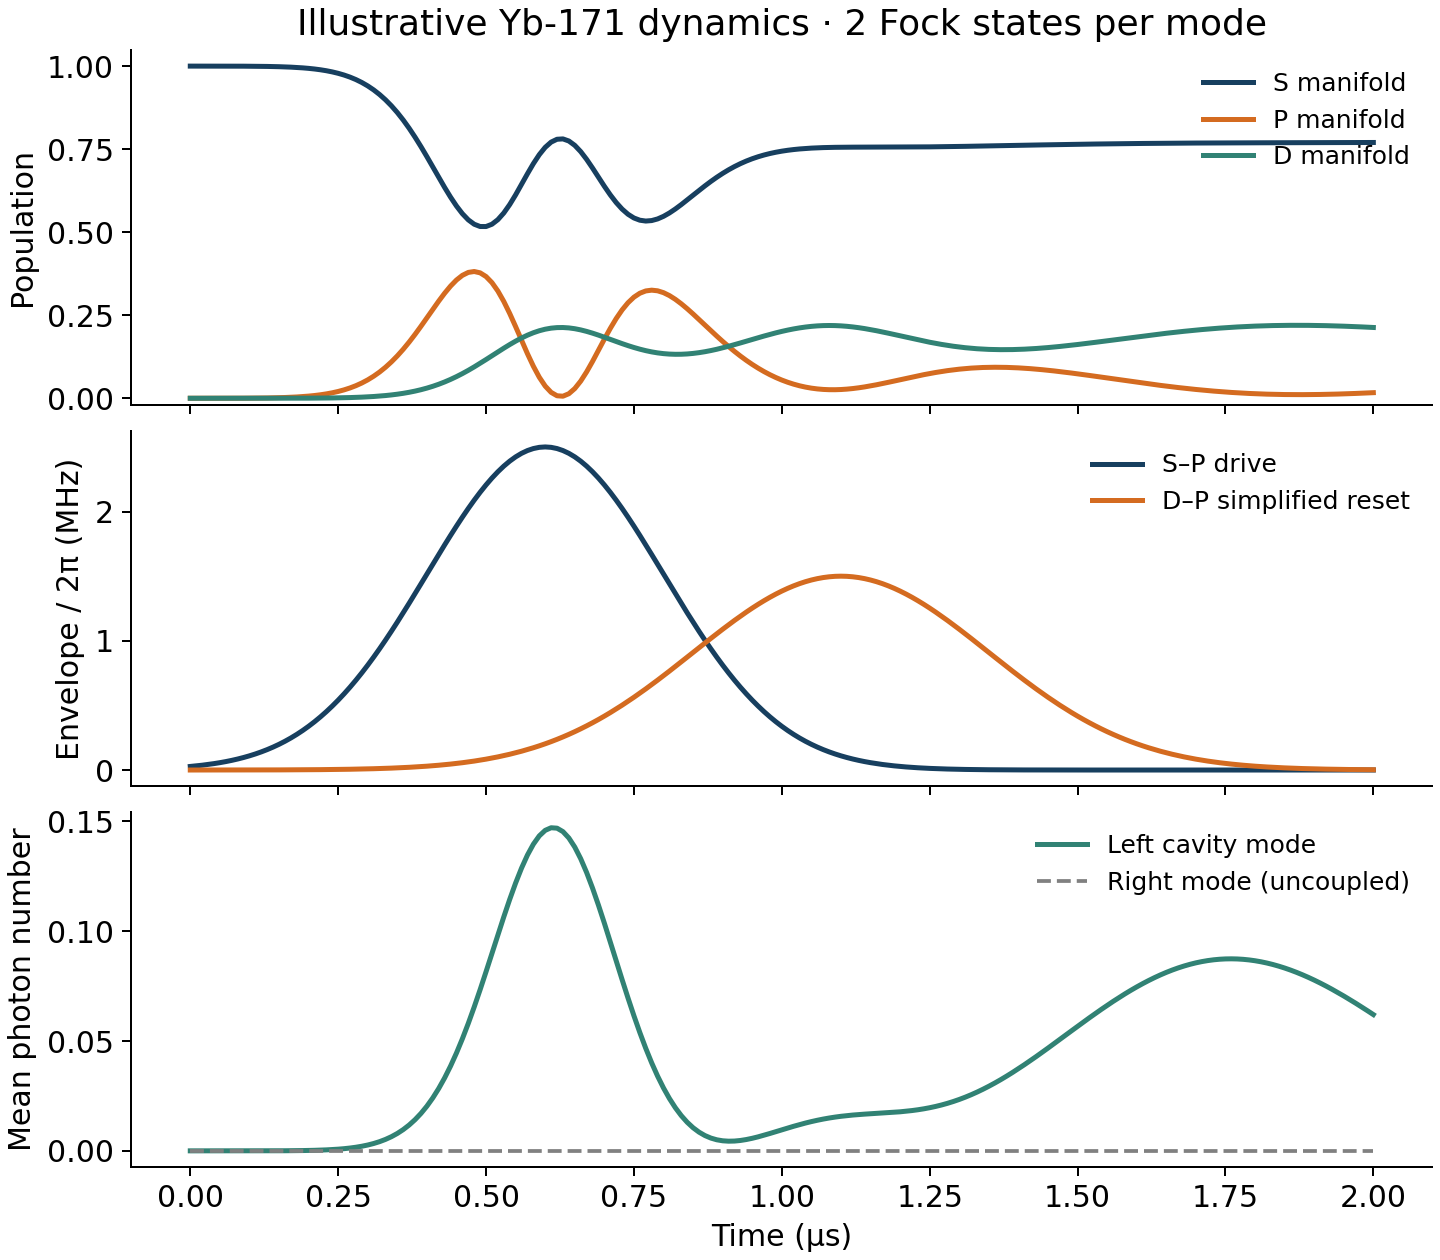
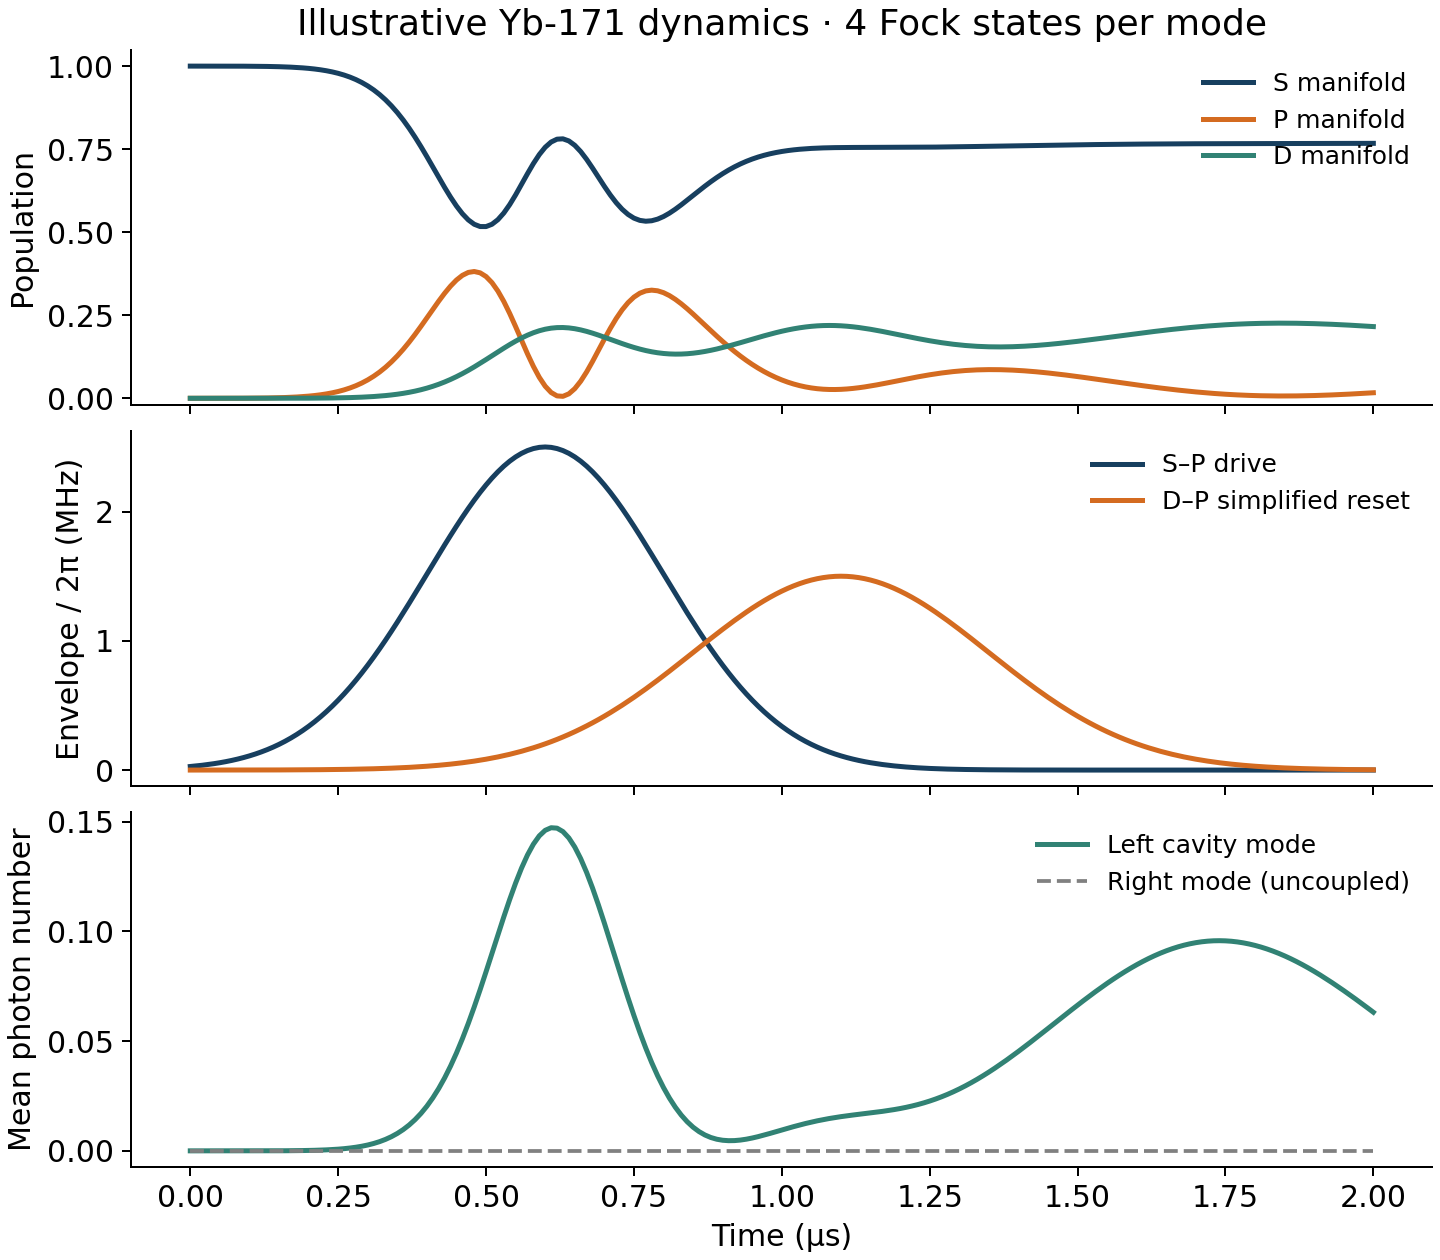
Check dimension five and adopt four-state cavity default

diff --git a/scripts/check_fock_truncation.py b/scripts/check_fock_truncation.py
@@ -1,4 +1,4 @@
-"""Compare the unchanged demo pulse sequence with two, three and four Fock states.
+"""Compare the unchanged demo pulse sequence with two, three, four and five Fock states.
 
 Run from the repository root: uv run python scripts/check_fock_truncation.py
 Results are printed as JSON; no files or default settings are changed.
@@ -14,9 +14,9 @@ from caipe_sim.yb171_simulator import solver_options
 
 
 def compare_fock_truncations() -> dict:
-    results = {n: simulate_demo(fock_dimension=n) for n in (2, 3, 4)}
+    results = {n: simulate_demo(fock_dimension=n) for n in (2, 3, 4, 5)}
     comparisons = {}
-    for small, large in ((2, 3), (3, 4)):
+    for small, large in ((2, 3), (3, 4), (4, 5)):
         np.testing.assert_array_equal(results[small]["time_us"], results[large]["time_us"])
         comparisons[f"{small}_vs_{large}"] = {
             key: float(np.max(np.abs(results[small][key] - results[large][key])))
@@ -24,12 +24,13 @@ def compare_fock_truncations() -> dict:
         }
     three_vs_four = max(comparisons["3_vs_4"].values())
     return {
-        "fock_dimensions_per_mode": [2, 3, 4],
+        "fock_dimensions_per_mode": [2, 3, 4, 5],
         "time_window_us": [float(results[2]["time_us"][0]), float(results[2]["time_us"][-1])],
         "samples": len(results[2]["time_us"]),
         "max_absolute_differences": comparisons,
         "threshold": 1e-3,
         "dimension_3_passes_threshold": three_vs_four < 1e-3,
+        "dimension_4_passes_threshold": max(comparisons["4_vs_5"].values()) < 1e-3,
         "qutip_version": qutip.__version__,
         "solver_options": solver_options(),
     }

diff --git a/scripts/make_readme_figures.py b/scripts/make_readme_figures.py
@@ -21,7 +21,7 @@ def make_figures(output: Path) -> None:
     with plt.rc_context({"font.size": 12, "axes.spines.top": False,
                          "axes.spines.right": False, "lines.linewidth": 2}):
         data = run_rabi_validation()
-        np.testing.assert_allclose(data["simulated"], data["analytic"], atol=2e-6, rtol=0)
+        np.testing.assert_allclose(data["simulated"], data["analytic"], atol=3.5e-6, rtol=0)
         fig, axes = plt.subplots(2, 1, figsize=(8, 6), sharex=True,
                                  gridspec_kw={"height_ratios": [3, 1]}, layout="constrained")
         axes[0].plot(data["time_us"], data["analytic"], color="#173f5f", label="Analytic pulse-area solution")

diff --git a/tests/portfolio/test_yb171.py b/tests/portfolio/test_yb171.py
@@ -44,7 +44,7 @@ def test_cavity_coupling_is_hermitian():
 def test_gaussian_pi_pulse_matches_analytic_rabi_solution():
     data = run_rabi_validation()
     assert data["analytic"].max() > .1
-    np.testing.assert_allclose(data["simulated"], data["analytic"], atol=2e-6, rtol=0)
+    np.testing.assert_allclose(data["simulated"], data["analytic"], atol=3.5e-6, rtol=0)
 
 
 

diff --git a/src/caipe_sim/config.py b/src/caipe_sim/config.py
@@ -1,4 +1,4 @@
 """Shared numerical defaults; see docs/fock-convergence.md for the decision."""
 
-# Dimension 3 versus 4 exceeds the requested 1e-3 threshold; retain dimension 2.
-DEFAULT_FOCK_DIMENSION = 2
+# Every dimension 4 versus 5 population/photon difference is below 1e-3.
+DEFAULT_FOCK_DIMENSION = 4

diff --git a/README.md b/README.md
@@ -4,7 +4,7 @@ Open-system simulation of a driven Yb-171 ion with two optical cavity polarizati
 
 ![Resonant Gaussian Rabi pulse: simulation, analytic solution and residual](docs/figures/rabi_validation.png)
 
-Simulation against the analytic Gaussian pulse-area solution, using the same setup as the [Rabi test](tests/portfolio/test_yb171.py); residuals are shown below the population. [Illustrative demo dynamics](docs/figures/demo_dynamics.png).
+Simulation against the analytic Gaussian pulse-area solution, using the same setup as the [Rabi test](tests/portfolio/test_yb171.py); residuals are shown below the population. [Illustrative demo dynamics](docs/figures/demo_dynamics.png), with 4 Fock states per mode (maximum 4−5 population difference 2.413e-4; photon-number difference 7.532e-5).
 
 ## What it models
 
@@ -28,7 +28,7 @@ The demonstration uses these inputs. Amplitudes and decay settings are model sca
 | γ_SP/(2π), γ_DP/(2π); S/D dephasing input | 0.01, 0.01; 0.000136 | MHz | Illustrative; [demo] |
 | Initial state; coupled mode | S,F=0,mF=0; left | — | Illustrative; [demo] |
 | Time window; samples | 0–2; 201 | µs; count | [demo] |
-| Fock dimension per mode | 2 | count | [Truncation decision](docs/fock-convergence.md) |
+| Fock dimension per mode | 4 | count | [Truncation decision](docs/fock-convergence.md) |
 | S–P vacuum wavelength | 369.52604 | nm | PRA 83, 013406, Table III; [sources] |
 | D–P vacuum Ritz wavelength | 2438.417759 | nm | NIST ASD level difference; [sources] |
 | P1/2 lifetime; P→D branching | 8.12; 0.00501 | ns; fraction | PRA 80, 022502; PRA 76, 052314; [sources] |
@@ -45,7 +45,7 @@ The UI starts in the same atomic state, left polarization, coupling and cavity l
 - Analytic resonant Rabi evolution.
 - Signed hyperfine coefficients against evaluated Wigner 3j/6j reference values.
 - Zeeman slopes against published formulas and rounded reference values.
-- Fock truncation at dimensions 2, 3 and 4: **3 versus 4 exceeds 1e-3**, so the default stays 2; this does not establish convergence.
+- Fock truncation at dimensions 2, 3, 4 and 5: every **4 versus 5 difference is below 1e-3**, so the default is 4 for this demo sequence.
 
 ## Quickstart
 

diff --git a/docs/fock-convergence.md b/docs/fock-convergence.md
@@ -1,22 +1,22 @@
 # Demo Fock truncation check
 
 Run `uv run python scripts/check_fock_truncation.py` to compare dimensions
-2, 3 and 4 per mode with identical demo pulses and solver settings.
-The Phase 1c decision rule is that every population and photon-number
-maximum absolute difference between dimensions 3 and 4 must be below 1e-3.
-**The condition fails, so the default remains 2.** All figures use this
-same default. This is an illustrative model, not a converged emission study.
+2, 3, 4 and 5 per mode with identical demo pulses and solver settings.
+The pre-merge decision rule is that every population and photon-number
+maximum absolute difference between dimensions 4 and 5 must be below 1e-3.
+**The condition passes, so the demo/UI default is now 4.** Both figures and
+the analytic test use this same default. The earlier 3−4 check failed. This is an illustrative model, not a converged emission study.
 
 Measured after the Phase 1c NIST and 369 nm wavelength refinements, with
 QuTiP 5.2.0 and 201 samples from 0 to 2 microseconds:
 
-| Observable | max abs(2 - 3) | max abs(3 - 4) |
-| --- | --- | --- |
-| P_S | 0.0023708679657 | 0.000225433529746 |
-| P_P | 0.0073434450683 | 0.00214468824286 |
-| P_D | 0.00864233158656 | 0.00223388488984 |
-| N_left | 0.00876353718433 | 0.00147452473536 |
-| N_right | 0 | 0 |
+| Observable | max abs(2 - 3) | max abs(3 - 4) | max abs(4 - 5) |
+| --- | --- | --- | --- |
+| P_S | 0.0023708679657 | 0.000225433529746 | 0.000223598631773 |
+| P_P | 0.0073434450683 | 0.00214468824286 | 0.000241316721655 |
+| P_D | 0.00864233158656 | 0.00223388488984 | 0.000105121008392 |
+| N_left | 0.00876353718433 | 0.00147452473536 | 7.53242015548e-05 |
+| N_right | 0 | 0 | 0 |
 
 Source: executed [comparison script](../scripts/check_fock_truncation.py),
 [simulate_demo](../src/caipe_sim/demo.py), and `solver_options()`.

diff --git a/docs/portfolio-review.md b/docs/portfolio-review.md
@@ -23,14 +23,20 @@ checkpoint; the following changes supersede its unresolved items.
 - All atomic provenance and precision limitations are in the source guide;
   these calculations add no new calibrated experimental parameter.
 
-The extended [Fock check](fock-convergence.md) compares dimensions 2, 3 and
-4. On the final wavelength inputs, max abs(3−4) is 0.00223388488984 for
-manifold populations and 0.00147452473536 for photon number. The requested
-1e-3 condition fails; default dimension **2 is retained**. Both README
-figures and the analytic test use that same numerical default. The maximum
-Rabi residual from the figure script is 1.99684274e-5, below the existing
-2e-5 absolute comparison tolerance. Source: executed comparison/figure
-scripts and `run_rabi_validation`; no experimental accuracy is implied.
+The extended [Fock check](fock-convergence.md) now compares dimensions 2, 3,
+4 and 5. The 3−4 comparison failed, but every 4−5 difference passes 1e-3:
+maximum population difference 0.000241316721655 and photon-number difference
+0.0000753242015548. The demo/UI default is therefore **4**, shared by both
+README figures and the analytic test. This is a sequence-specific check.
+
+The pre-merge analytic solver check at dimension 2 reduced the maximum
+residual from 1.99684274e-5 to 1.64187332e-7 (about 122×) with atol=1e-10,
+rtol=1e-8. At the new default dimension 4 the residual is 3.40955548e-7;
+the test/figure comparison uses absolute tolerance 3.5e-6 and rtol=0
+(about 10× that residual). Only the analytic experiment uses tighter solver
+tolerances; the demo/truncation solver remains unchanged. Source: executed
+comparison/figure scripts and `run_rabi_validation`; no experimental
+accuracy is implied.
 
 ## Repository changes
 

diff --git a/docs/model-status.md b/docs/model-status.md
@@ -62,18 +62,18 @@ calibration or photon-generation performance study.
   scales, not measured total branch rates. Metadata lifetimes and branching
   fractions do not automatically normalize the channel sums. `gamma_SD`
   controls S/D projector dephasing, not a radiative D→S decay channel.
-- **Truncation sensitivity is measurable.** The default demo has two Fock
-  states per mode. Increasing this to three changes a manifold population
-  by as much as 0.00864233158656 for the current pulse sequence; see the
-  [executed comparison](fock-convergence.md). This is not a convergence proof.
+- **Truncation is sequence-dependent.** The default is four Fock states per
+  mode: maximum 4−5 population difference is 2.413e-4 and photon-number
+  difference is 7.532e-5 for the demo; see the
+  [executed comparison](fock-convergence.md). This does not validate other pulses.
 - **Current correlations are fluorescence diagnostics.** They use an SP
   atomic transition operator and the final state with a static Hamiltonian,
   not pulse-resolved cavity-output correlations. Intracavity photon number
   is not itself an output probability. No polarization-entanglement claim
   is established by the present calculations.
-- **Truncation decision:** dimension 3 versus 4 exceeds 1e-3 in both a
-  population and photon number, so the default remains 2. Figures and the
-  analytic validation helper share `DEFAULT_FOCK_DIMENSION`.
+- **Truncation decision:** every dimension 4 versus 5 difference is below
+  1e-3, so the default is 4. Figures and the analytic validation helper share
+  `DEFAULT_FOCK_DIMENSION`.
 
 The UI dictionary and radio selector now both start at left, with cavity
 coupling 0.5 MHz and loss input 0.1 MHz, matching the demo. The UI retains
